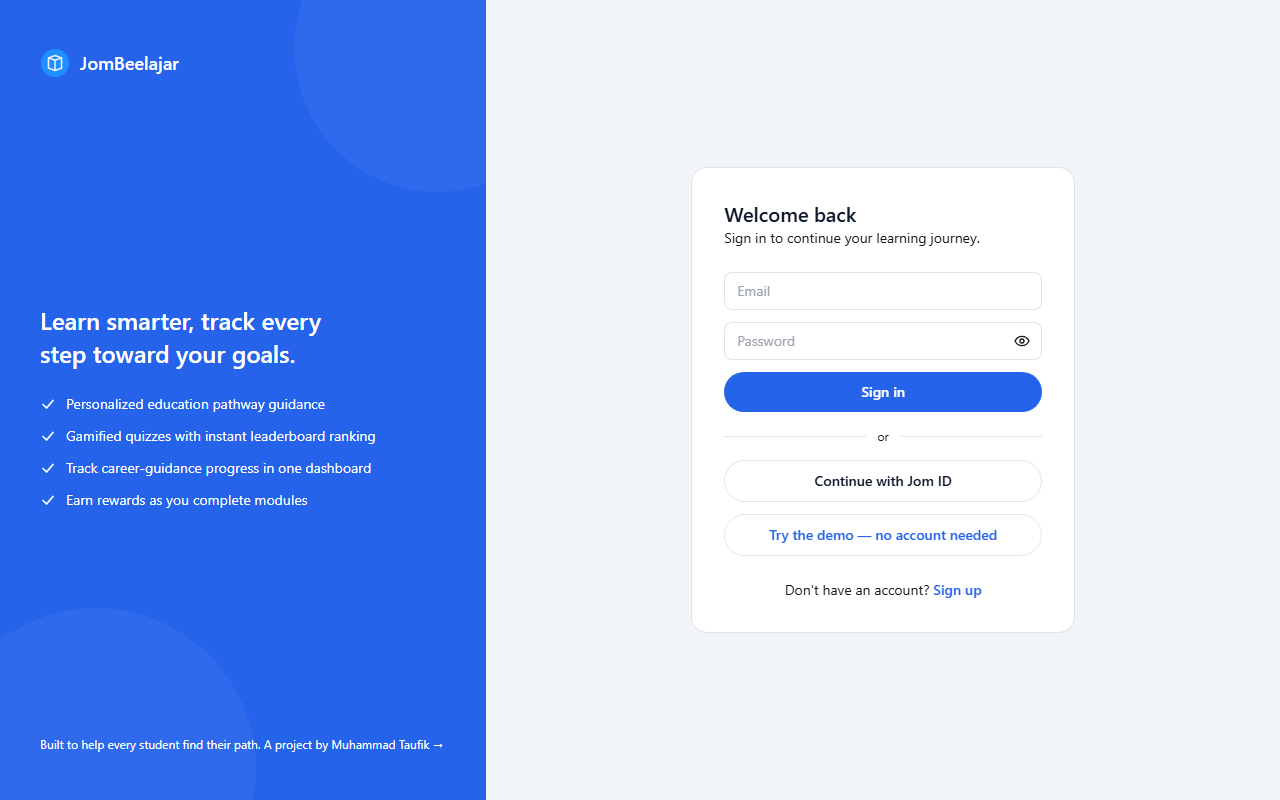
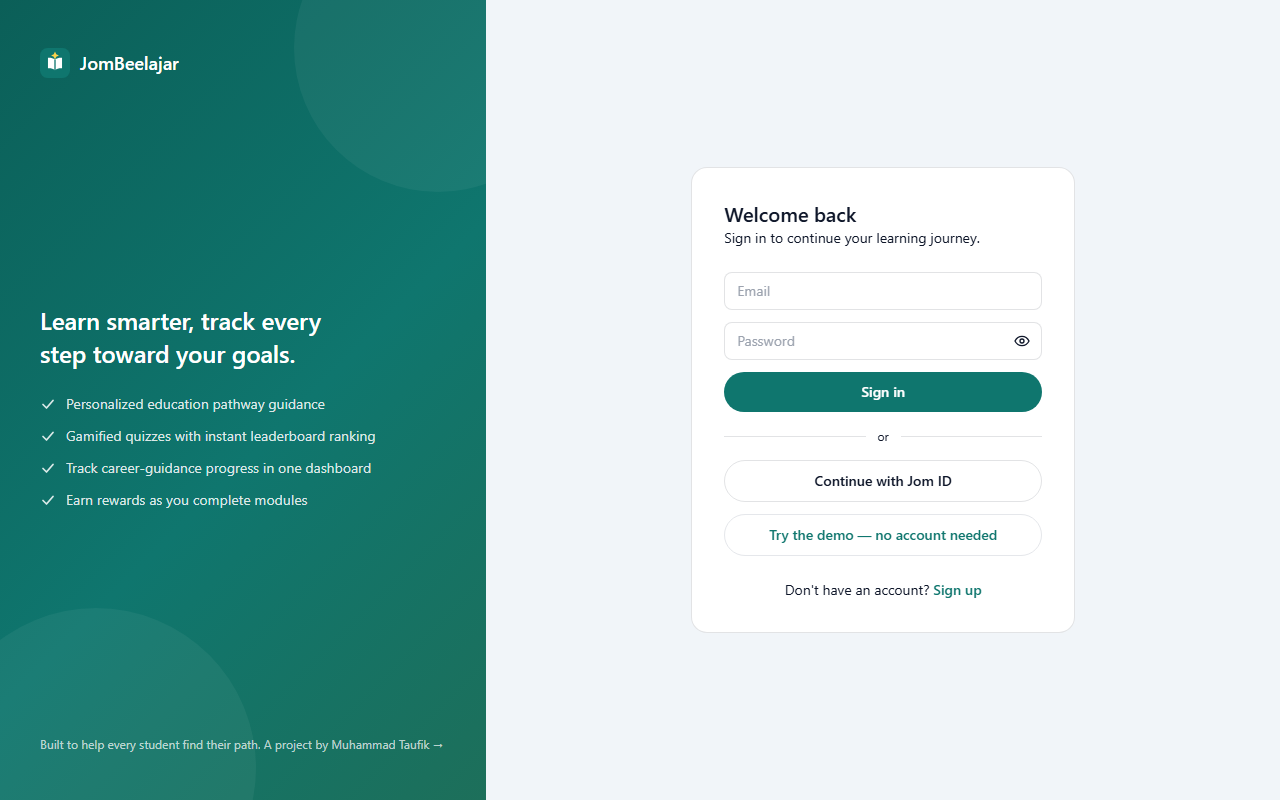
Refresh README: teal-redesign screenshots, guest demo section, env/CI accuracy

diff --git a/README.md b/README.md
@@ -8,15 +8,25 @@ A gamified learning platform for Malaysian SPM students: browse subjects, chapte
 
 **Live site:** https://jombeelajar.taufikhamid.com
 
-Sign-in uses the shared Jom ID account. Most of the app (dashboard, profile, quiz submission) needs an account; the public pages (landing, about, leaderboards, career guidance) work without one.
+Sign-in uses the shared Jom ID account. The dashboard, profile and quiz submission need a signed-in session; the public pages (about, leaderboards, career guidance, privacy, terms) work without one.
+
+## Try the demo
+
+The sign-in page has a **Try the demo, no account needed** button. It starts a Supabase anonymous session (`supabase.auth.signInAnonymously()` in `src/app/auth/page.tsx`) and opens the dashboard as a "Guest User" with no email or password. It is the quickest way to look around the signed-in app. Guest sessions are not tied to a Jom ID account.
 
 ## Screenshots
 
-Public pages of the live site (the sign-in page is what visitors see first).
+Captured from a local build of the teal redesign. The dashboard and profile are shown as a guest demo user (empty progress).
 
-![JomBeelajar sign-in page, desktop](docs/screenshots/landing-desktop.png)
+![Sign-in page, desktop](docs/screenshots/landing-desktop.png)
 
-<img src="docs/screenshots/landing-mobile.png" alt="JomBeelajar sign-in page, mobile" width="280">
+![Dashboard, desktop](docs/screenshots/dashboard-desktop.png)
+
+![Leaderboard, desktop](docs/screenshots/leaderboard-desktop.png)
+
+![Profile, desktop](docs/screenshots/profile-desktop.png)
+
+<img src="docs/screenshots/landing-mobile.png" alt="Sign-in page, mobile" width="280">
 
 ## Tech stack
 
@@ -25,7 +35,7 @@ Public pages of the live site (the sign-in page is what visitors see first).
 - ASP.NET Core API (JomBeelajar-API, hosted on Render) for quiz and content logic
 - TanStack Query, react-hook-form, date-fns
 - Jest + React Testing Library, Playwright smoke tests
-- Deployed on Vercel; CI on GitHub Actions
+- Deployed on Vercel; CI on GitHub Actions (lint and Jest, E2E, and a scheduled keepalive ping for the API)
 
 See [docs/ARCHITECTURE.md](docs/ARCHITECTURE.md) for how the pieces fit together.
 
@@ -45,6 +55,7 @@ Environment variables (see `.env.example`):
 | --- | --- |
 | `NEXT_PUBLIC_SUPABASE_URL`, `NEXT_PUBLIC_SUPABASE_ANON_KEY` | Everything |
 | `SUPABASE_SERVICE_ROLE_KEY` | Server-only admin features |
+| `SUPABASE_URL` | Optional server-side fallback for the Supabase URL |
 | `JOMBEELAJAR_API_URL` | Calls to the JomBeelajar API |
 | `SUPABASE_DB_URL` | `npm run db:migrate` only |
 | `E2E_TEST_EMAIL`, `E2E_TEST_PASSWORD` | Signed-in E2E specs (optional) |
